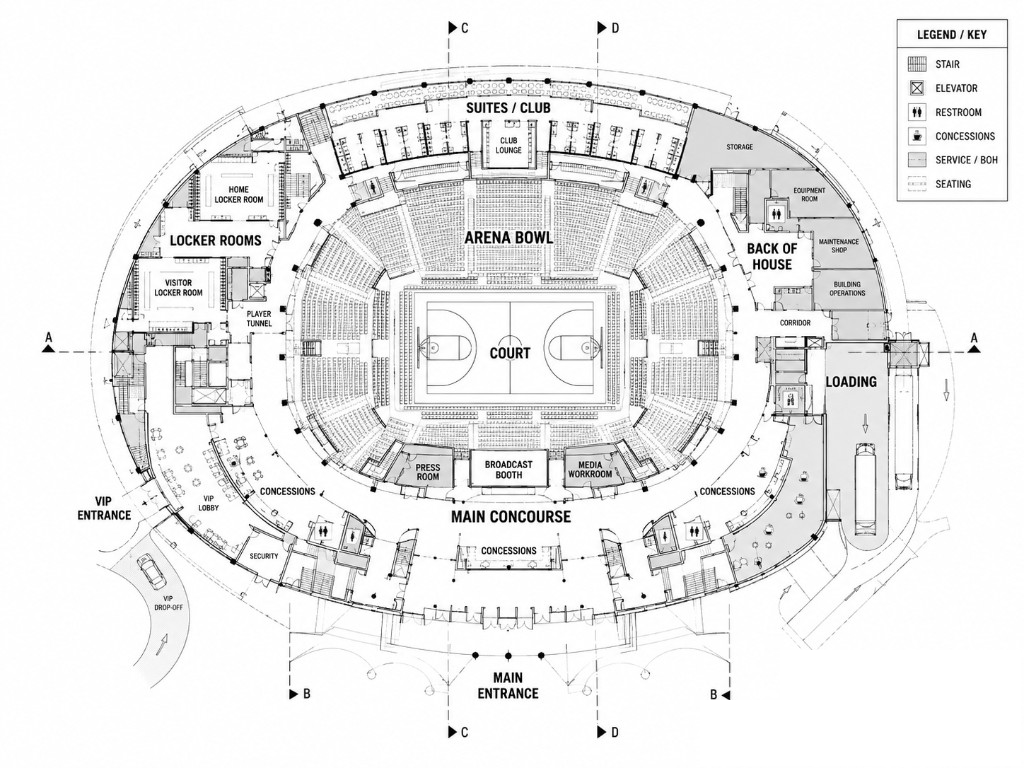
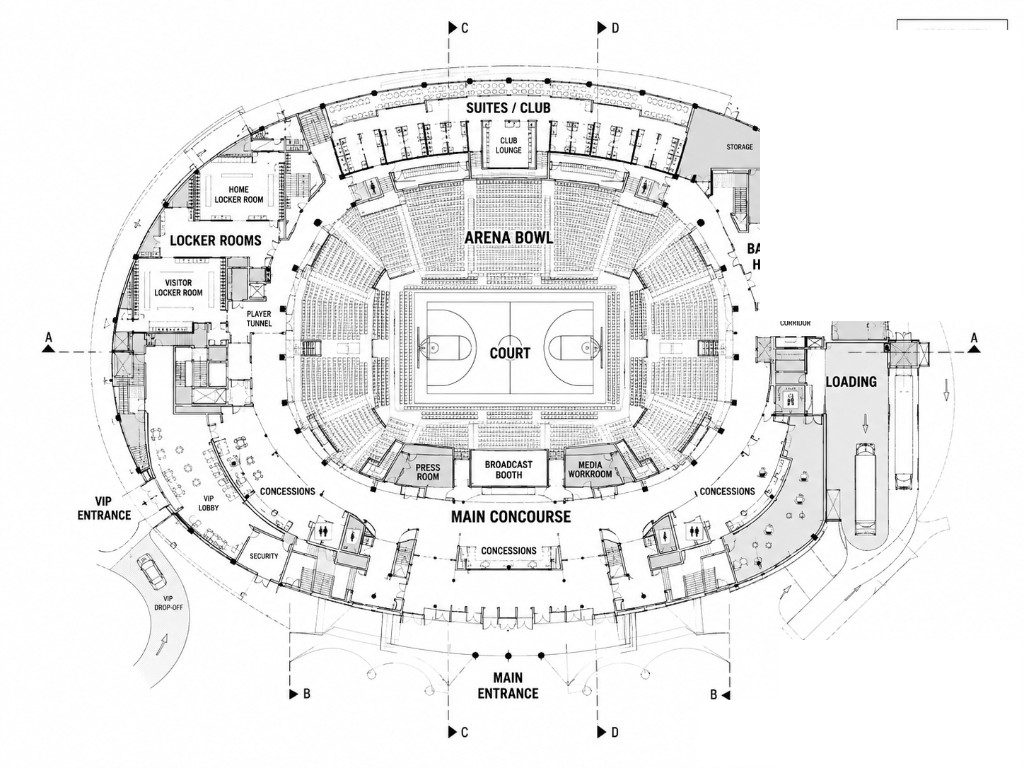
Industry floorplans: wipe remaining keys, spread cards for adequate spacing
Wipe the sports LEGEND/KEY box (top-right), conference title/scale
bar, and airport title/scale block that survived the first pass.
Push callout cards further out (-6% -> -10%), narrow them slightly
(21% -> 19%), spread vertical positions to ~20%/~78% per side for
a larger gap between top and bottom cards, and give the aurora
stage more padding so everything breathes. Fix leader-line y1
values to match the new card positions.

Changed region(s): [[0.7188, 0.1562, 0.9062, 0.4375], [0.875, 0.0312, 1.0, 0.2812]]

diff --git a/src/data/industryDetails.ts b/src/data/industryDetails.ts
@@ -468,7 +468,7 @@ export const industryDetails: Partial<Record<IndustrySlug, IndustryDetail>> = {
         'The guest journey is a chain of touchpoints \u2014 arrival, lobby, restaurants, spa, pool, the event floor, the grounds \u2014 and at each one, screens, audio, and lighting shape the impression and carry the message. LUCI orchestrates them all as one, so the right moment lands in the right space at the right time.',
     },
     floorplan: {
-      image: '/images/industries/hotel/floorplan.png?v=2',
+      image: '/images/industries/hotel/floorplan.png?v=3',
       imageAlt:
         'Architectural floorplan of a hotel and resort podium: arrival court, lobby, retail, restaurants and bars, pool deck, spa and fitness, guest tower core, ballroom, meeting rooms, service and back of house, loading, and parking.',
       imageWidth: 1024,
@@ -479,30 +479,30 @@ export const industryDetails: Partial<Record<IndustrySlug, IndustryDetail>> = {
         {
           label: 'Set the tone on arrival',
           desc: 'Welcome and orient the guest with signage, wayfinding, and music.',
-          plate: { side: 'right', right: '-6%', top: '80%' },
+          plate: { side: 'right', right: '-10%', top: '78%' },
           delay: 0,
-          lines: [{ x1: 90, y1: 80, x2: 50, y2: 87 }],
+          lines: [{ x1: 96, y1: 78, x2: 50, y2: 87 }],
         },
         {
           label: 'Move guests toward amenities',
           desc: 'Promote the spa at dusk and breakfast at dawn \u2014 the right offer at the right moment.',
-          plate: { side: 'left', left: '-6%', top: '74%' },
+          plate: { side: 'left', left: '-10%', top: '78%' },
           delay: 1,
-          lines: [{ x1: 8, y1: 74, x2: 25, y2: 48 }],
+          lines: [{ x1: 4, y1: 78, x2: 25, y2: 48 }],
         },
         {
           label: 'Switch the event floor in a few taps',
           desc: 'Wedding, banquet, and corporate room A/V can combine or split in a matter of minutes.',
-          plate: { side: 'right', right: '-6%', top: '30%' },
+          plate: { side: 'right', right: '-10%', top: '20%' },
           delay: 2,
-          lines: [{ x1: 90, y1: 30, x2: 73, y2: 18 }],
+          lines: [{ x1: 96, y1: 20, x2: 73, y2: 18 }],
         },
         {
           label: 'Hold one brand across the property',
           desc: 'Every media interaction reinforces your marketing messages without drift.',
-          plate: { side: 'left', left: '-6%', top: '22%' },
+          plate: { side: 'left', left: '-10%', top: '20%' },
           delay: 3,
-          lines: [{ x1: 8, y1: 22, x2: 50, y2: 26 }],
+          lines: [{ x1: 4, y1: 20, x2: 50, y2: 26 }],
         },
       ],
     },
@@ -678,7 +678,7 @@ export const industryDetails: Partial<Record<IndustrySlug, IndustryDetail>> = {
       'Back of House',
     ],
     floorplan: {
-      image: '/images/industries/sports/floorplan.png?v=2',
+      image: '/images/industries/sports/floorplan.png?v=3',
       imageAlt:
         'Architectural floorplan of a multi-purpose sports arena configured for basketball: court and bowl, main concourse, suites and club, locker rooms, media area, VIP lobby, back of house, and loading dock.',
       imageWidth: 1024,
@@ -689,34 +689,34 @@ export const industryDetails: Partial<Record<IndustrySlug, IndustryDetail>> = {
         {
           label: 'Bring the bowl to life',
           desc: 'A big play, and the whole bowl reacts as one \u2014 boards, audio, and lighting fire together in sync.',
-          plate: { side: 'right', right: '-6%', top: '26%' },
+          plate: { side: 'right', right: '-10%', top: '22%' },
           delay: 0,
-          lines: [{ x1: 90, y1: 26, x2: 52, y2: 50 }],
+          lines: [{ x1: 96, y1: 22, x2: 52, y2: 50 }],
         },
         {
           label: 'Turn every screen into a moment',
           desc: 'Sponsors don\u2019t want placements \u2014 they want moments. Turn every screen into a sponsor activation, on demand.',
-          plate: { side: 'right', right: '-6%', top: '72%' },
+          plate: { side: 'right', right: '-10%', top: '78%' },
           delay: 1,
-          lines: [{ x1: 90, y1: 72, x2: 54, y2: 28 }],
+          lines: [{ x1: 96, y1: 78, x2: 54, y2: 28 }],
         },
         {
           label: 'Reset the building between events',
           desc: 'Basketball tonight, a concert tomorrow \u2014 the building\u2019s full A/V environment switches for any event, in moments.',
-          plate: { side: 'left', left: '-6%', top: '64%' },
+          plate: { side: 'left', left: '-10%', top: '78%' },
           delay: 2,
           lines: [
-            { x1: 8, y1: 64, x2: 50, y2: 48 },
-            { x1: 8, y1: 64, x2: 50, y2: 24 },
-            { x1: 8, y1: 64, x2: 52, y2: 76 },
+            { x1: 4, y1: 78, x2: 50, y2: 48 },
+            { x1: 4, y1: 64, x2: 50, y2: 24 },
+            { x1: 4, y1: 64, x2: 52, y2: 76 },
           ],
         },
         {
           label: 'Run the whole show from one place',
           desc: 'Every display, zone, and light in the building can be controlled from one interface.',
-          plate: { side: 'left', left: '-6%', top: '20%' },
+          plate: { side: 'left', left: '-10%', top: '20%' },
           delay: 3,
-          lines: [{ x1: 8, y1: 20, x2: 50, y2: 70 }],
+          lines: [{ x1: 4, y1: 20, x2: 50, y2: 70 }],
         },
       ],
     },
@@ -885,7 +885,7 @@ export const industryDetails: Partial<Record<IndustrySlug, IndustryDetail>> = {
         'In a terminal, information is everything — and your screens, speakers, and signage are how passengers get it. That makes multimedia the layer that guides the journey, drives revenue, and carries the messages that matter most.',
     },
     floorplan: {
-      image: '/images/industries/airports-transportation/floorplan.png?v=2',
+      image: '/images/industries/airports-transportation/floorplan.png?v=3',
       imageAlt:
         'Architectural floorplan of an airport terminal: departures hall, arrivals hall, concourses A/B/C, airline lounges, administration, parking, hotel and conference center, departure curbside, and ground transportation.',
       imageWidth: 1024,
@@ -896,30 +896,30 @@ export const industryDetails: Partial<Record<IndustrySlug, IndustryDetail>> = {
         {
           label: 'Set the tone at arrival',
           desc: 'The first screens a passenger sees shape the whole journey — calm, oriented, on-brand from the curb.',
-          plate: { side: 'right', right: '-6%', top: '80%' },
+          plate: { side: 'right', right: '-10%', top: '78%' },
           delay: 0,
-          lines: [{ x1: 90, y1: 80, x2: 50, y2: 62 }],
+          lines: [{ x1: 96, y1: 78, x2: 50, y2: 62 }],
         },
         {
           label: 'Turn dwell time into revenue',
           desc: 'The time between security and boarding is your best commercial inventory — the right offer, at the right gate, at the right moment.',
-          plate: { side: 'left', left: '-6%', top: '76%' },
+          plate: { side: 'left', left: '-10%', top: '76%' },
           delay: 1,
-          lines: [{ x1: 8, y1: 76, x2: 23, y2: 48 }],
+          lines: [{ x1: 4, y1: 76, x2: 23, y2: 48 }],
         },
         {
           label: 'Give passengers the right info at the right time',
           desc: 'Keep wayfinding and gate information clear, current, and consistent.',
-          plate: { side: 'right', right: '-6%', top: '30%' },
+          plate: { side: 'right', right: '-10%', top: '20%' },
           delay: 2,
-          lines: [{ x1: 90, y1: 30, x2: 50, y2: 56 }],
+          lines: [{ x1: 96, y1: 20, x2: 50, y2: 56 }],
         },
         {
           label: 'Keep the whole terminal in sync',
           desc: 'One consistent message across every screen and speaker — so passengers always know what’s happening, especially when plans change.',
-          plate: { side: 'left', left: '-6%', top: '24%' },
+          plate: { side: 'left', left: '-10%', top: '24%' },
           delay: 3,
-          lines: [{ x1: 8, y1: 24, x2: 50, y2: 45 }],
+          lines: [{ x1: 4, y1: 24, x2: 50, y2: 45 }],
         },
       ],
     },
@@ -966,7 +966,7 @@ export const industryDetails: Partial<Record<IndustrySlug, IndustryDetail>> = {
         'In a convention center, flexibility is everything — and your screens, signs, and LED are how the building becomes each client’s event. That makes multimedia the layer that brands the space per client, guides attendees in real time, and turns circulation into revenue.',
     },
     floorplan: {
-      image: '/images/industries/conference-convention-centers/floorplan.png?v=2',
+      image: '/images/industries/conference-convention-centers/floorplan.png?v=3',
       imageAlt: 'Architectural floorplan of a conference and convention center: arrival court, registration, prefunction lobby, grand ballroom, exhibition hall, meeting rooms, breakout rooms, boardrooms, administration, food service and cafe, outdoor terrace, and parking garage.',
       imageWidth: 1024,
       imageHeight: 768,
@@ -976,30 +976,30 @@ export const industryDetails: Partial<Record<IndustrySlug, IndustryDetail>> = {
         {
           label: 'Brand any space for any client',
           desc: 'Give each event its own branding across room signs, wayfinding, and LED.',
-          plate: { side: 'left', left: '-6%', top: '24%' },
+          plate: { side: 'left', left: '-10%', top: '24%' },
           delay: 0,
-          lines: [{ x1: 8, y1: 24, x2: 22, y2: 18 }],
+          lines: [{ x1: 4, y1: 24, x2: 22, y2: 18 }],
         },
         {
           label: 'Manage concurrent events with precision',
           desc: 'On a day with several events in the building, easily control A/V in each zone from one interface.',
-          plate: { side: 'right', right: '-6%', top: '30%' },
+          plate: { side: 'right', right: '-10%', top: '20%' },
           delay: 1,
-          lines: [{ x1: 90, y1: 30, x2: 80, y2: 18 }],
+          lines: [{ x1: 96, y1: 20, x2: 80, y2: 18 }],
         },
         {
           label: 'Guide every attendee',
           desc: 'Sessions move, rooms change, schedules shift by the hour — keep everyone on track and on time.',
-          plate: { side: 'right', right: '-6%', top: '76%' },
+          plate: { side: 'right', right: '-10%', top: '76%' },
           delay: 2,
-          lines: [{ x1: 90, y1: 76, x2: 50, y2: 45 }],
+          lines: [{ x1: 96, y1: 76, x2: 50, y2: 45 }],
         },
         {
           label: 'Turn circulation into revenue',
           desc: 'Turn lobbies and concourses into branded, sponsorable space that can be switched with a tap.',
-          plate: { side: 'left', left: '-6%', top: '80%' },
+          plate: { side: 'left', left: '-10%', top: '78%' },
           delay: 3,
-          lines: [{ x1: 8, y1: 80, x2: 20, y2: 75 }],
+          lines: [{ x1: 4, y1: 78, x2: 20, y2: 75 }],
         },
       ],
     },
